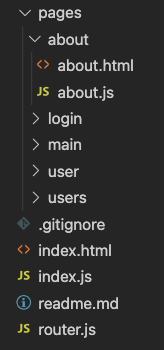
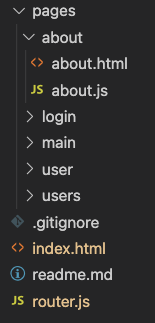
asd

diff --git a/topics/javascript/routing.md b/topics/javascript/routing.md
@@ -19,27 +19,27 @@ To get access to navigo add this line before you load the rest of your javascrip
 ```html
 <body>
   <script src="//unpkg.com/navigo"></script>
-  <script src="index.js"></script>
+  <script src="router.js"></script>
 </body>
 ```
 
-Now in your `index.js` file
+Now in your `router.js` file
 
 ```javascript
 const router = new Navigo("/", { hash: true });
- router
-    .on({
-      "/": () => {
-        console.log('User requested main page');
-      },
-      "about": () => {
-        console.log('User requested the about page');
-      },
-      "/user/:id/": ({ data }) => {
-        console.log('User requested user page with id ' + data.id);
-      },
-    })
-    .resolve();
+router
+  .on({
+  	"/": () => {
+      console.log('User requested main page');
+    },
+    "about": () => {
+      console.log('User requested the about page');
+    },
+    "/user/:id/": ({ data }) => {
+      console.log('User requested user page with id ' + data.id);
+    },
+	})
+  .resolve();
 }
 ```
 
@@ -83,7 +83,7 @@ This is the `index.html`
 <body>
   <div class="content"></div>
   <script src="//unpkg.com/navigo"></script>
-  <script src="index.js" type="module"></script>
+  <script src="router.js" type="module"></script>
 </body>
 ```
 

diff --git a/topics/javascript/frontend-structure.md b/topics/javascript/frontend-structure.md
@@ -16,9 +16,8 @@ The overall structure of the application looks like this 👇
 
 - The `pages` - folder contains the different pages in the application. each page has an html file and a js file
 - `.gitignore` - contains the files that should not be included in the git repo (`.DS_Store` fx)
-- `index.html` - contains the `content` div, loads navigo and the main js file `index.js`
+- `index.html` - contains the `content` div, loads navigo and the main js file `router.js`
 - `router.js` - contains the router
-- `index.js` - just calls the `startRouter` that will start the router
 
 
 

diff --git a/SUMMARY.md b/SUMMARY.md
@@ -21,7 +21,9 @@
   - [API's](topics/javascript/apis.md)
   - [Asynchronous programming](topics/javascript/async.md)
   - [Routing using Navigo](topics/javascript/routing.md)
-  -  [Frontend structure](topics/javascript/frontend-structure.md) 
+  - [Frontend structure](topics/javascript/frontend-structure.md) 
+  - [Connecting your frontend to api](topics/javascript/connecting-frontend-to-api.md)
+  - [Authentication](topics/javascript/authentication.md)
   
 - Lessons
 

diff --git a/topics/javascript/connecting-frontend-to-api.md b/topics/javascript/connecting-frontend-to-api.md
@@ -1,0 +1,4 @@
+# Connecting frontend to backend api
+
+Today we will be talking about connecting the backend code you wrote with the frontend code! 
+
